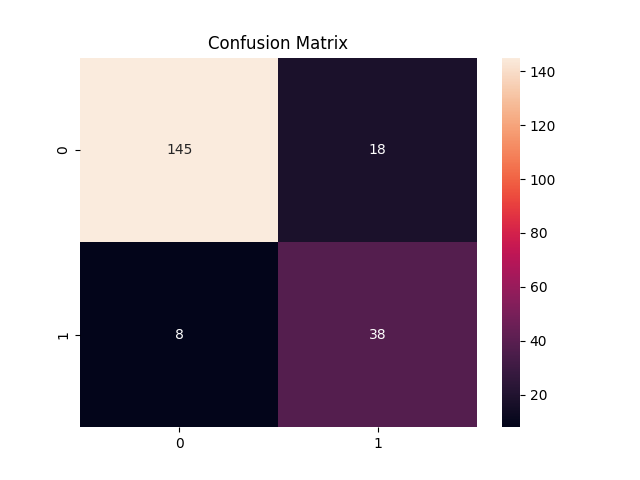
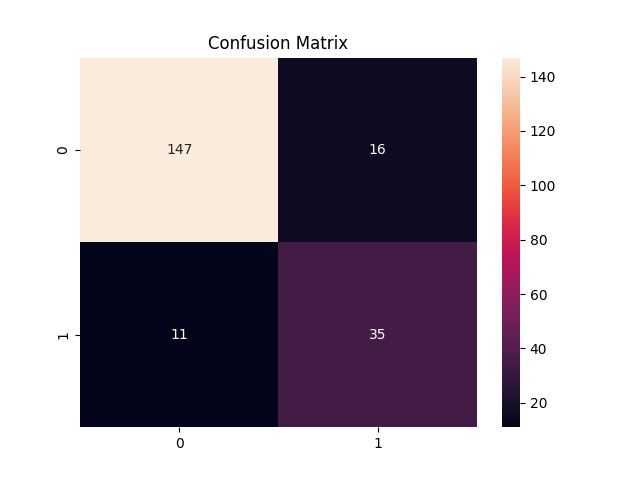
DVC, MLflow, Feast integration

diff --git a/src/training_pipeline.py b/src/training_pipeline.py
@@ -1,3 +1,5 @@
+import subprocess
+
 import matplotlib.pyplot as plt
 import mlflow
 import mlflow.sklearn
@@ -5,30 +7,27 @@ import numpy as np
 import pandas as pd
 import seaborn as sns
 from feast import FeatureStore
+from sklearn.base import clone
 from sklearn.calibration import CalibratedClassifierCV
 from sklearn.linear_model import LogisticRegression
 from sklearn.metrics import (
     accuracy_score,
     confusion_matrix,
     f1_score,
+    precision_recall_curve,
     precision_score,
     recall_score,
     roc_auc_score,
 )
-from sklearn.model_selection import train_test_split
+from sklearn.model_selection import StratifiedKFold, train_test_split
 from sklearn.pipeline import Pipeline
 from sklearn.preprocessing import StandardScaler
 
 store = FeatureStore(repo_path="features")
 
-entity_df = pd.DataFrame(
-    {
-        "student_id": range(1044),
-        "event_timestamp": pd.to_datetime(
-            ["2026-02-20 11:22:24.079496" for x in range(1044)]
-        ),
-    }
-)
+offline_df = pd.read_parquet("data/processed/student_features.parquet")
+
+entity_df = offline_df[["student_id", "event_timestamp"]]
 
 X = store.get_historical_features(
     entity_df=entity_df,
@@ -56,13 +55,74 @@ print("traning_df", traning_df)
 X = traning_df.drop(columns=["dropout", "student_id", "event_timestamp"])
 Y = traning_df["dropout"]
 
-X_train, X_test, y_train, y_test = train_test_split(
-    X, Y, test_size=0.2, stratify=Y, random_state=42
-)
-
 mlflow.set_experiment("student-performance")
 
-with mlflow.start_run():
+
+def find_stable_threshold(model, X, y, n_splits=5):
+    skf = StratifiedKFold(n_splits=n_splits, shuffle=True, random_state=42)
+
+    thresholds = []
+
+    for train_idx, val_idx in skf.split(X, y):
+        X_train, X_val = X.iloc[train_idx], X.iloc[val_idx]
+        y_train, y_val = y.iloc[train_idx], y.iloc[val_idx]
+
+        model_clone = clone(model)
+        model_clone.fit(X_train, y_train)
+
+        y_prob = model_clone.predict_proba(X_val)[:, 1]
+
+        precision, recall, thr = precision_recall_curve(y_val, y_prob)
+
+        f1_scores = 2 * (precision * recall) / (precision + recall + 1e-8)
+
+        print("--" * 100)
+        print(f1_scores)
+
+        best_thr = thr[np.argmax(f1_scores[:-1])]
+        thresholds.append(best_thr)
+
+    return np.median(thresholds), np.std(thresholds)
+
+
+def get_git_commit():
+    return subprocess.check_output(["git", "rev-parse", "HEAD"]).decode().strip()
+
+
+def detect_threshold_drift(model_name, new_threshold, drift_limit=0.05):
+    client = mlflow.tracking.MlflowClient()
+
+    lastest_version = client.get_latest_versions(
+        model_name,
+    )
+
+    if not lastest_version:
+        print("No Previous production model found")
+        return None, False
+
+    lastest_run_id = lastest_version[0].run_id
+
+    previous_threshold = float(
+        client.get_run(lastest_run_id).data.params.get("decision_threshold", 0.5)
+    )
+
+    drift = abs(new_threshold - previous_threshold)
+
+    drift_detected = drift > drift_limit
+
+    print(f"Previous Threshold: {previous_threshold}")
+    print(f"New Threshold: {new_threshold}")
+    print(f"Threshold Drift: {drift}")
+    print(f"Drift Detected (> {drift_limit}): {drift_detected}")
+
+    return drift, drift_detected
+
+
+def train_with_auto_threshold():
+    X_train, X_test, y_train, y_test = train_test_split(
+        X, Y, test_size=0.2, stratify=Y, random_state=42
+    )
+
     pipeline = Pipeline(
         [
             ("scaler", StandardScaler()),
@@ -75,11 +135,18 @@ with mlflow.start_run():
         ]
     )
 
+    best_threshold, threshold_std = find_stable_threshold(pipeline, X_train, y_train)
+
+    print("--" * 100)
+    print("Best threshold => ", best_threshold)
+    print("Best threshold_std => ", threshold_std)
+    print("--" * 100)
+
     # Train
     pipeline.fit(X_train, y_train)
-    MODEL_THRESHOLD = 0.31
+    MODEL_THRESHOLD = best_threshold
     # Predict
-    y_pred = pipeline.predict(X_test)
+    # y_pred = pipeline.predict(X_test)
     y_prob = pipeline.predict_proba(X_test)[:, 1]
     y_pred = (y_prob > MODEL_THRESHOLD).astype(int)
 
@@ -96,37 +163,42 @@ with mlflow.start_run():
     print("f1_score", f1)
     print("roc_auc", auc)
 
-    # Log Metrics
-    mlflow.log_metric("accuracy", acc)
-    mlflow.log_metric("precision", precision)
-    mlflow.log_metric("recall", recall)
-    mlflow.log_metric("f1_score", f1)
-    mlflow.log_metric("roc_auc", auc)
+    drift, drift_flag = detect_threshold_drift("student_dropout_model", best_threshold)
 
-    # Log parametrics
-    mlflow.log_param("model", "LogisticRegression")
-    mlflow.log_param("calibraction", "isotonic")
+    with mlflow.start_run():
+        # Log Metrics
+        mlflow.log_metric("accuracy", acc)
+        mlflow.log_metric("precision", precision)
+        mlflow.log_metric("recall", recall)
+        mlflow.log_metric("f1_score", f1)
+        mlflow.log_metric("roc_auc", auc)
 
-    # Log model
-    mlflow.sklearn.log_model(
-        pipeline, "model", registered_model_name="student_dropout_model"
-    )
+        # Log parametrics
+        mlflow.log_param("model", "LogisticRegression")
+        mlflow.log_param("calibraction", "isotonic")
 
-    cm = confusion_matrix(y_test, y_pred)
+        # Log model
+        mlflow.sklearn.log_model(
+            pipeline, "model", registered_model_name="student_dropout_model"
+        )
 
-    plt.figure()
-    sns.heatmap(cm, annot=True, fmt="d")
-    plt.title("Confusion Matrix")
-    plt.savefig("confustion_matrix.png")
+        cm = confusion_matrix(y_test, y_pred)
 
-    mlflow.log_artifact("confustion_matrix.png")
-    mlflow.log_param("decision_threshold", MODEL_THRESHOLD)
-    print("Logged to MLFlow successfully")
+        plt.figure()
+        sns.heatmap(cm, annot=True, fmt="d")
+        plt.title("Confusion Matrix")
+        plt.savefig("confustion_matrix.png")
 
-    # for threshold in [0.31]:
-    #     y_pred_thresh = (y_prob > threshold).astype(int)
+        mlflow.log_artifact("confustion_matrix.png")
+        mlflow.log_param("decision_threshold", MODEL_THRESHOLD)
+        git_commit = get_git_commit()
+        mlflow.log_param("git_commit", git_commit)
+        print("Logged to MLFlow successfully")
 
-    #     print(f"\nThreshold: {threshold}")
-    #     print("Precision:", precision_score(y_test, y_pred_thresh))
-    #     print("Recall:", recall_score(y_test, y_pred_thresh))
-    #     print("F1:", f1_score(y_test, y_pred_thresh))
+        if drift is not None:
+            mlflow.log_metric("threshold_drift", drift)
+            mlflow.log_metric("threshold_drift_flag", drift_flag)
+
+
+if __name__ == "__main__":
+    train_with_auto_threshold()

diff --git a/src/drift.py b/src/drift.py
@@ -1,0 +1,119 @@
+import json
+import os
+import subprocess
+import tempfile
+
+import mlflow
+import numpy as np
+import pandas as pd
+from feast import FeatureStore
+from mlflow.tracking import MlflowClient
+
+from training_pipeline import train_with_auto_threshold
+
+MLFLOW_TRACKING_URI = "http://127.0.0.1:5000"
+MODEL_NAME = "student_dropout_model"
+CURRENT_FEATURE_PATH = "data/processed/student_features.parquet"
+DRIFT_THRESHOLD = 0.2
+METRICS_PATH = "metrics/drift.json"
+FEATURE_REPO_PATH = "features"
+
+
+def get_reference_commit():
+    mlflow.set_tracking_uri(MLFLOW_TRACKING_URI)
+    client = MlflowClient()
+
+    versions = client.get_latest_versions(MODEL_NAME)
+
+    run_id = versions[0].run_id
+
+    print(run_id)
+
+    run = mlflow.get_run(run_id)
+    reference_commit = run.data.params["git_commit"]
+
+    print("COmmit => ", reference_commit)
+    return reference_commit
+
+
+def load_refernce_dataset(reference_commit):
+    temp_dir = tempfile.mkdtemp()
+
+    subprocess.run(["git", "clone", ".", temp_dir], check=True)
+
+    subprocess.run(["git", "checkout", reference_commit], cwd=temp_dir, check=True)
+
+    subprocess.run(["dvc", "pull"], cwd=temp_dir, check=True)
+
+    path = os.path.join(temp_dir, "data/processed/student_features.parquet")
+
+    return pd.read_parquet(path)
+
+
+def get_reference_pd():
+    reference_commit = get_reference_commit()
+    return load_refernce_dataset(reference_commit)
+
+
+# Population Density Index
+def calculate_psi(expected, actual, bins=10):
+    expected_percents, bin_edges = np.histogram(expected, bins=bins)
+    actual_percents, _ = np.histogram(actual, bins=bin_edges)
+
+    expected_percents = expected_percents / len(expected)
+    actual_percents = actual_percents / len(actual)
+
+    psi_values = (expected_percents - actual_percents) * np.log(
+        (expected_percents + 1e-6) / (actual_percents + 1e-6)
+    )
+
+    return np.sum(psi_values)
+
+
+def main():
+    os.makedirs("metrics", exist_ok=True)
+
+    # store = FeatureStore(repo_path=FEATURE_REPO_PATH)
+    # store.materialize_incremental(end_date=pd.Timestamp.now())
+
+    reference_df = get_reference_pd()
+    current_df = pd.read_parquet(CURRENT_FEATURE_PATH)
+
+    numeric_cols = reference_df.select_dtypes(include=np.number).columns
+    current_numcols = current_df.select_dtypes(include=np.number).columns
+
+    print("-" * 60)
+    print(numeric_cols)
+    print(current_numcols)
+    print("-" * 60)
+
+    drift_scores = {}
+    drift_detected = False
+
+    for col in numeric_cols:
+        psi_score = calculate_psi(reference_df[col], current_df[col])
+        drift_scores[col] = float(psi_score)
+
+        if psi_score > DRIFT_THRESHOLD:
+            drift_detected = True
+
+    result = {
+        "drift_detected": drift_detected,
+        "psi_threshold": DRIFT_THRESHOLD,
+        "feature_psi": drift_scores,
+    }
+
+    if not drift_detected:
+        print("No training needed")
+    else:
+        print("Re-training")
+        train_with_auto_threshold()
+
+    with open(METRICS_PATH, "w") as f:
+        json.dump(result, f, indent=4)
+
+    print("Drift result:", result)
+
+
+if __name__ == "__main__":
+    main()

diff --git a/src/materialize.py b/src/materialize.py
@@ -1,0 +1,40 @@
+import os
+from datetime import datetime, timezone
+
+from feast import FeatureStore
+
+FEAST_REPO_PATH = os.getenv("FEAST_REPO_PATH", "features")
+MARKER_FILE_PATH = "data/feast_materialized.marker"
+
+
+def materialize_incremental(store: FeatureStore):
+    end_time = datetime.now(timezone.utc)
+
+    store.materialize_incremental(end_date=end_time)
+
+    return end_time
+
+
+def write_marker(timestamp: datetime):
+    os.makedirs(os.path.dirname(MARKER_FILE_PATH), exist_ok=True)
+
+    with open(MARKER_FILE_PATH, "w") as f:
+        f.write(timestamp.isoformat())
+
+
+def main():
+    try:
+        print("Feast repo path: ", FEAST_REPO_PATH)
+        store = FeatureStore(repo_path=FEAST_REPO_PATH)
+
+        end_time = materialize_incremental(store)
+        print("Feast end_time: ", end_time)
+
+        write_marker(end_time)
+    except Exception as e:
+        print(e)
+        raise e
+
+
+if __name__ == "__main__":
+    main()

diff --git a/readme.md b/readme.md
@@ -1,0 +1,6 @@
+To train locally, set env variables
+
+
+export AWS_ACCESS_KEY_ID=XXX
+export AWS_SECRET_ACCESS_KEY=XXX
+export AWS_DEFAULT_REGION=ap-south-1
